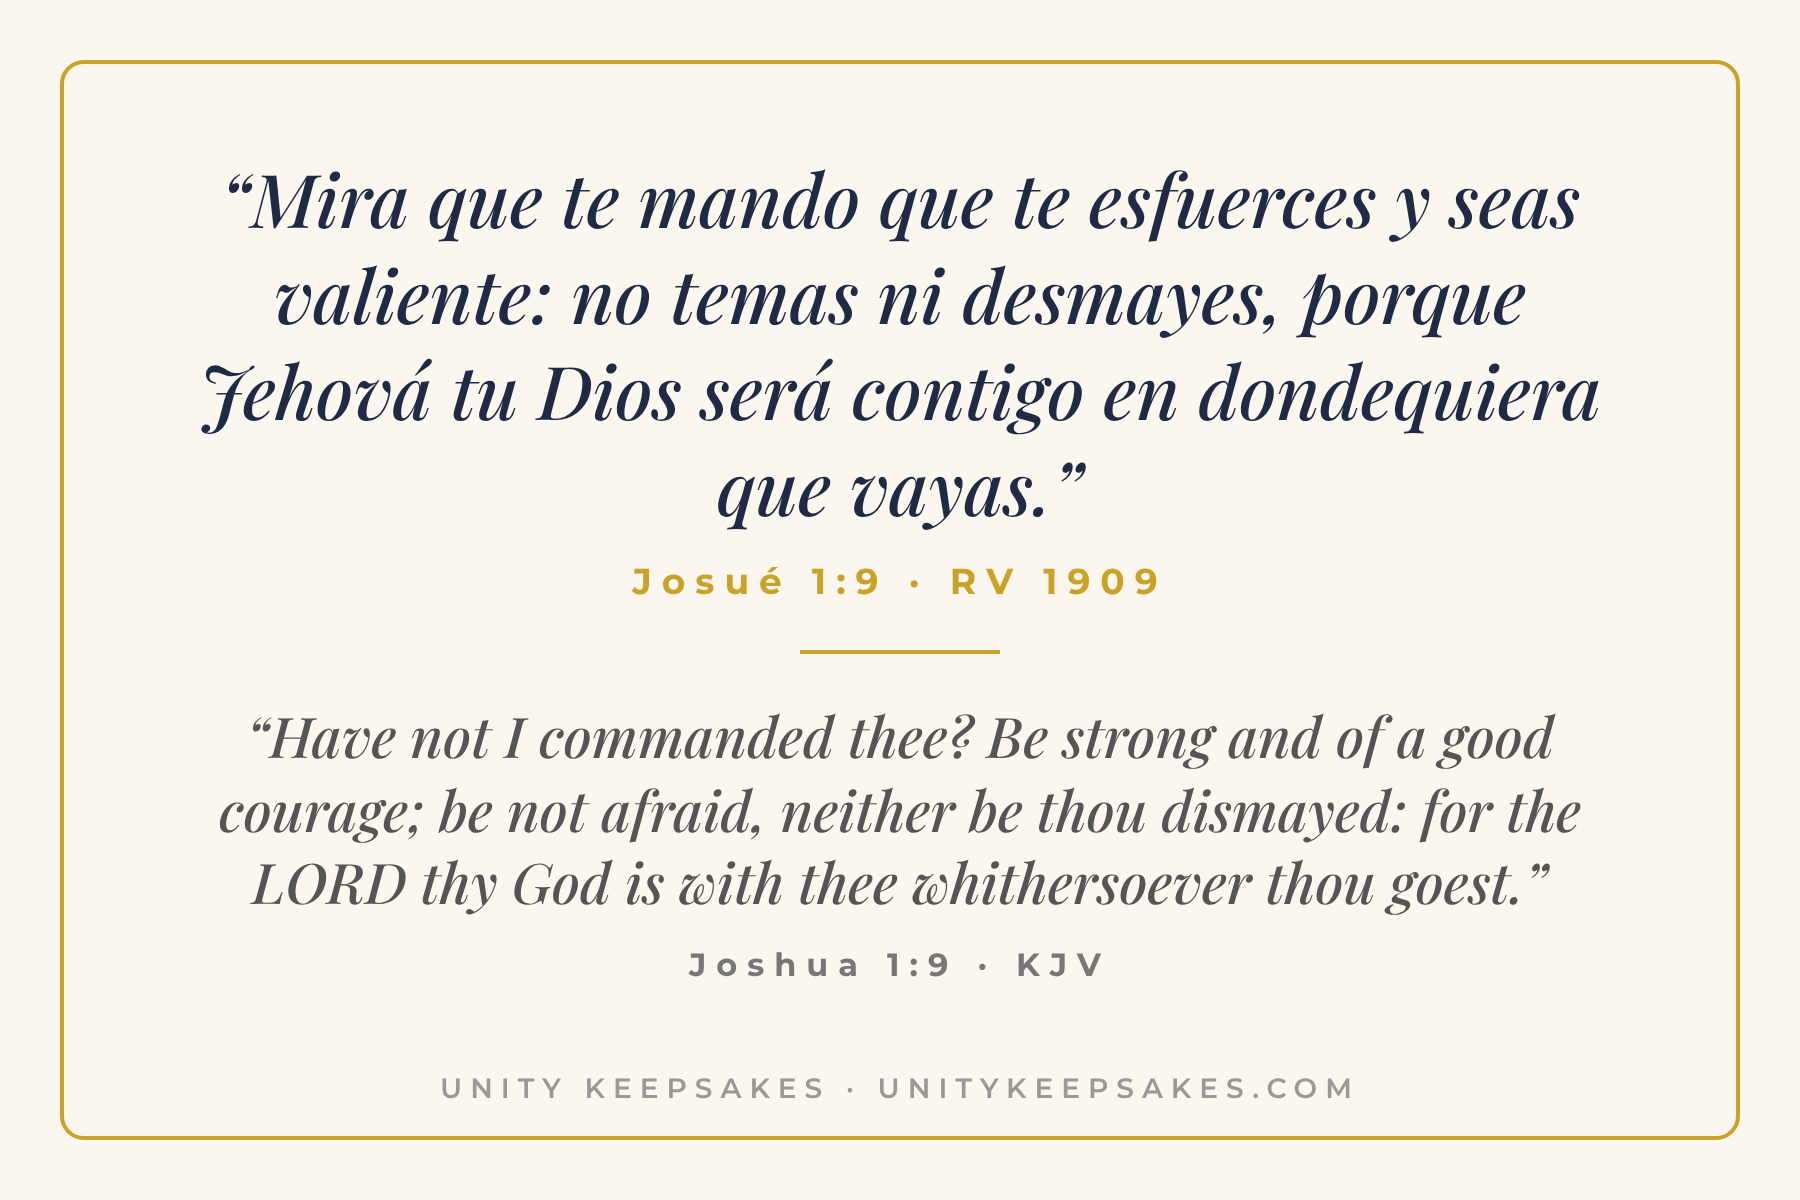
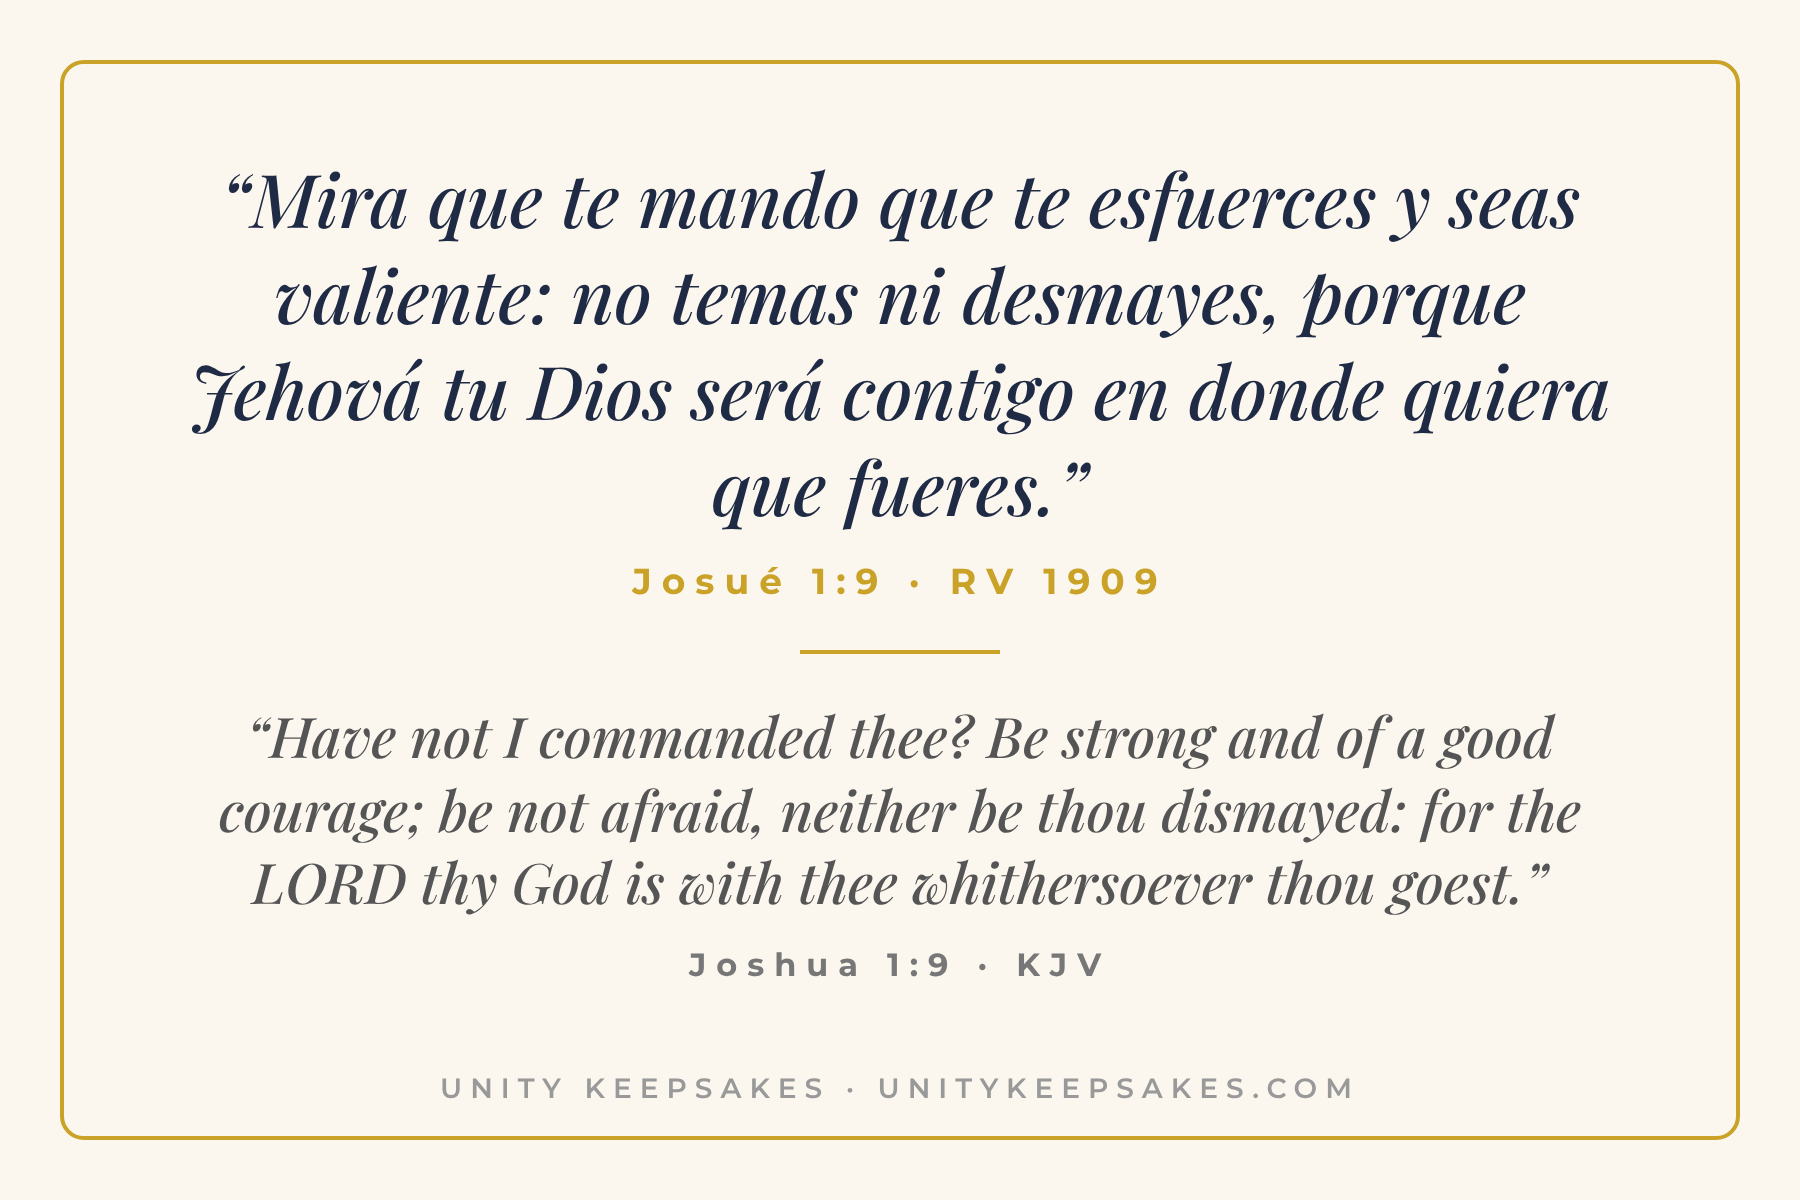
Verse cards: exact RV1909 wording (Ps 46:10, Josué 1:9) checked against owner's Bible PDF
Claude-Session: https://claude.ai/code/session_016J2nU7A2YAX41gT6f3cs1D

Changed region(s): [[0.0933, 0.3083, 0.9022, 0.4317]]

diff --git a/docs/unity-keepsakes/design-scripts/batch8/designs.py b/docs/unity-keepsakes/design-scripts/batch8/designs.py
@@ -23,7 +23,7 @@ page('card_es_front',f'''<div style="position:absolute;inset:0;background:radial
 <div style="font-family:Montserrat;font-weight:700;font-size:40px;letter-spacing:16px;color:#c9a227">TARJETA DE FE</div>
 <div style="font-family:'Great Vibes';font-size:250px;line-height:1.2;margin-top:40px">Estad quietos</div>
 <div style="font-family:'Playfair Display';font-style:italic;font-size:72px;margin-top:20px;color:#e9dcc0">y conoced que yo soy Dios</div></div>''')
-back('card_es_back','Salmos 46:10','Estad quietos, y conoced que yo soy Dios; ensalzado seré entre las naciones, ensalzado seré en la tierra.','Psalm 46:10','Be still, and know that I am God: I will be exalted among the heathen, I will be exalted in the earth.','#c9a227')
+back('card_es_back','Salmos 46:10','Estad quietos, y conoced que yo soy Dios: ensalzado he de ser entre las gentes, ensalzado seré en la tierra.','Psalm 46:10','Be still, and know that I am God: I will be exalted among the heathen, I will be exalted in the earth.','#c9a227')
 # 2) English: Psalm 91:1
 page('card_en_front',f'''<div style="position:absolute;inset:0;background:#fbf7ef"></div>
 <div style="position:absolute;inset:60px;border:4px solid #1f3a5f;border-radius:24px"></div>
@@ -40,5 +40,5 @@ page('card_vet_front',f'''<div style="position:absolute;inset:0;background:radia
 <div style="font-family:'Playfair Display';font-weight:700;font-size:170px;line-height:1.1;margin-top:40px">Be Strong</div>
 <div style="font-family:'Playfair Display';font-weight:700;font-size:170px;line-height:1.1;color:#40cdc8">and Courageous</div>
 <div style="font-family:'Playfair Display';font-style:italic;font-size:64px;margin-top:30px;color:#e9dcc0">Fuerte y valiente</div></div>''')
-back('card_vet_back','Josué 1:9','Mira que te mando que te esfuerces y seas valiente: no temas ni desmayes, porque Jehová tu Dios será contigo en dondequiera que vayas.','Joshua 1:9','Have not I commanded thee? Be strong and of a good courage; be not afraid, neither be thou dismayed: for the LORD thy God is with thee whithersoever thou goest.','#c9a227')
+back('card_vet_back','Josué 1:9','Mira que te mando que te esfuerces y seas valiente: no temas ni desmayes, porque Jehová tu Dios será contigo en donde quiera que fueres.','Joshua 1:9','Have not I commanded thee? Be strong and of a good courage; be not afraid, neither be thou dismayed: for the LORD thy God is with thee whithersoever thou goest.','#c9a227')
 json.dump(J,open(OUT+'/jobs.json','w')); print(len(J))
